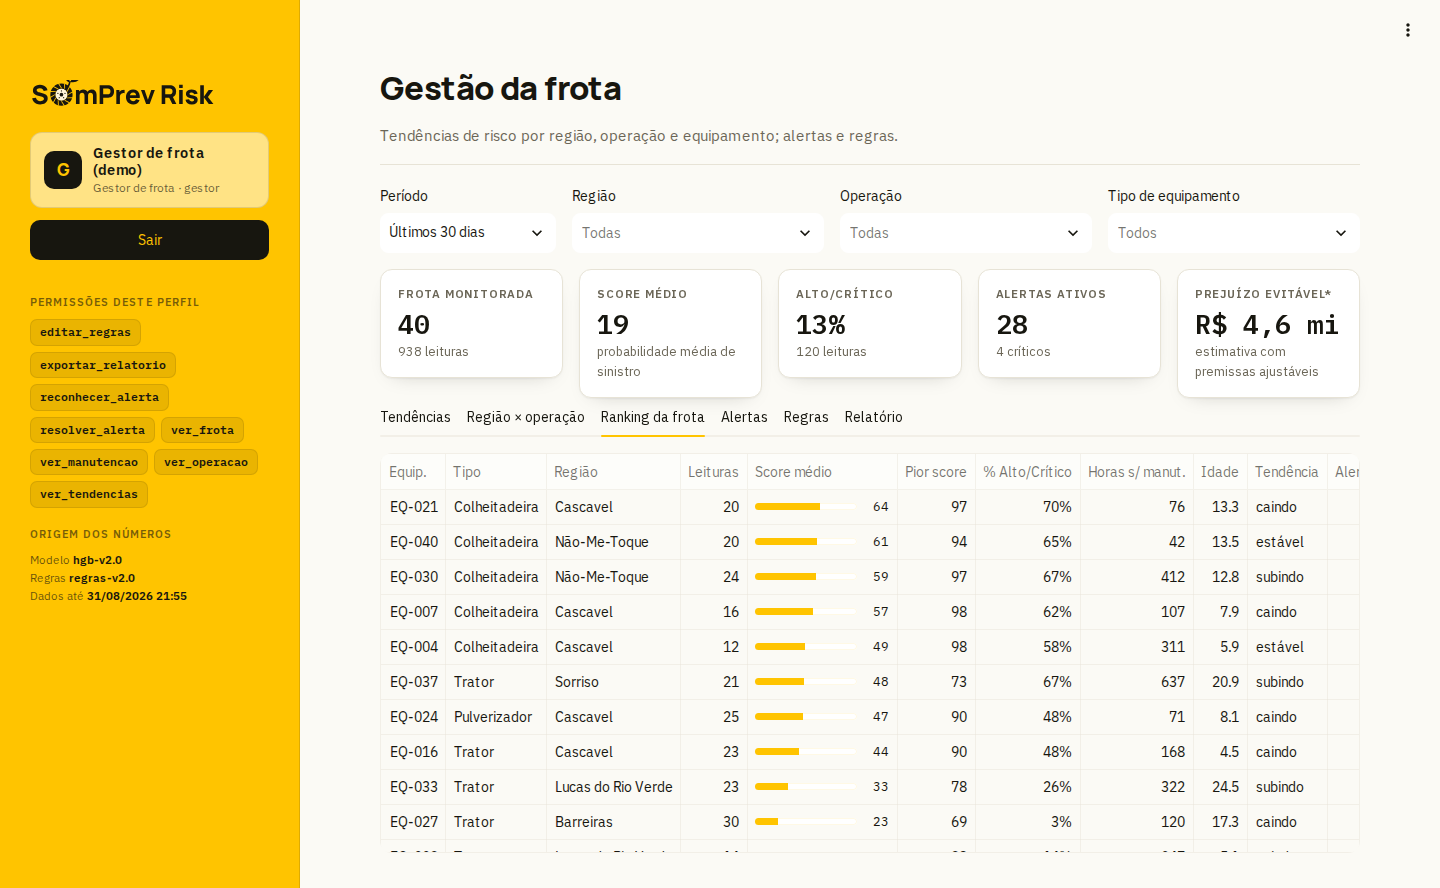
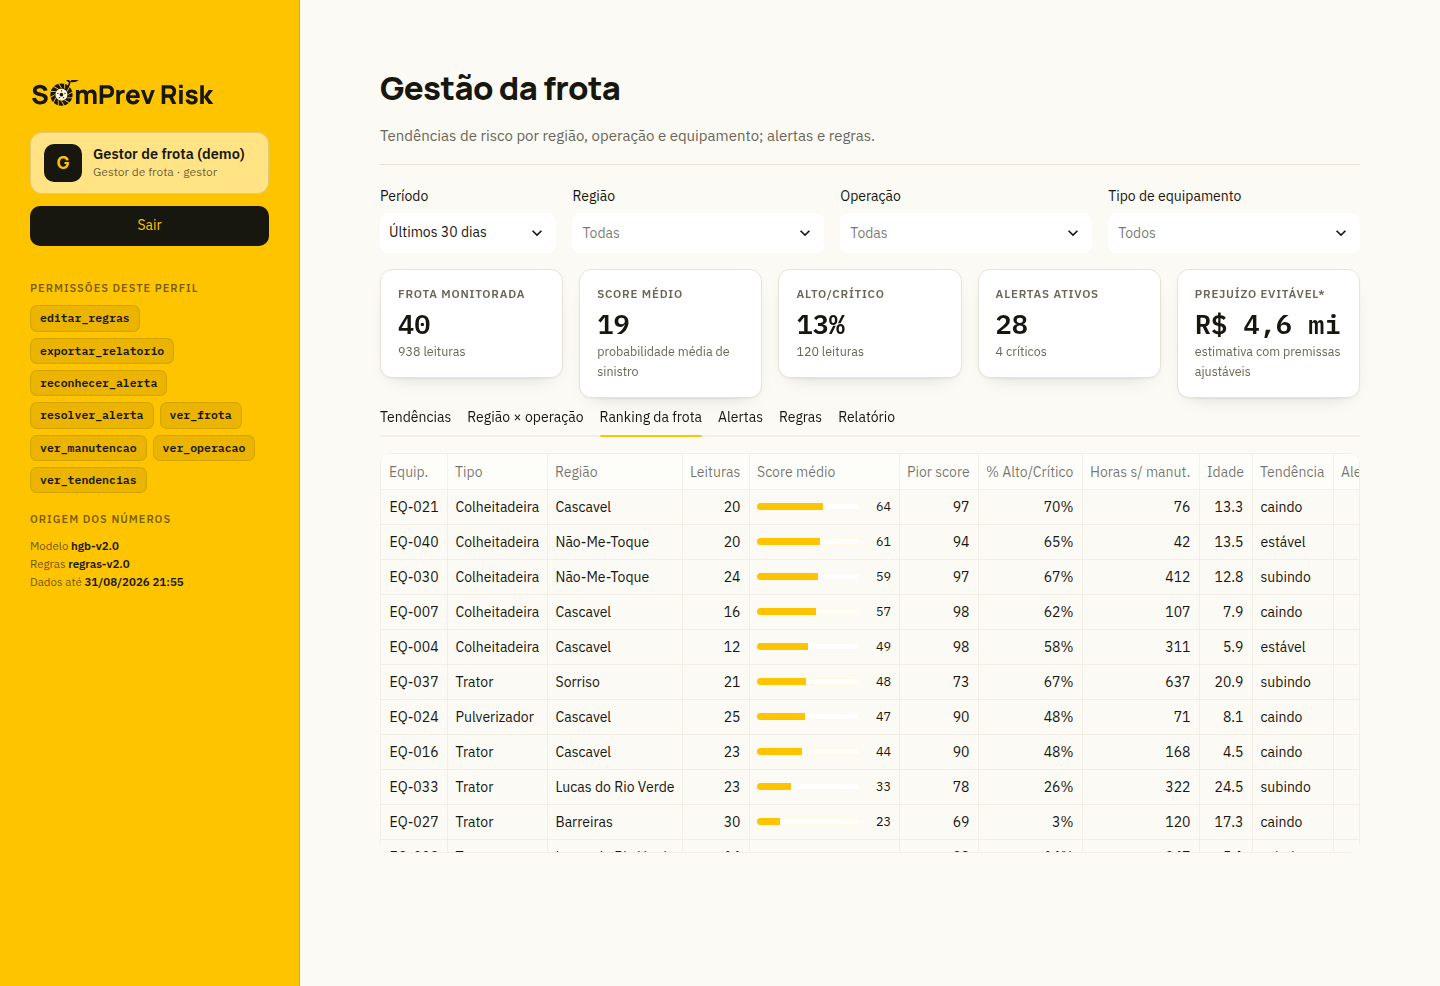
Refaz os prints do dashboard com a paleta corrigida
Os 13 prints de document/prints/sprint4/ eram de 14/10, quando a paleta
categorica generica ainda estava em uso: o grafico de comparacao de modelos
aparecia com barras azul e laranja dentro do print da aba da Seguradora.

- 12 prints refeitos com o dashboard rodando sobre uma COPIA do banco
  (SOMPREV_DB_PATH), entao nenhum dado do repositorio foi alterado.
- 13_api_docs.png mantido: e a interface do Swagger, nao tem nada da identidade.
- tema.py: troca a 5a e a 6a cor da paleta categorica de lugar. Com seis regioes
  no grafico de tendencia, o verde do broto e o oliva caiam lado a lado; agora
  ficam separados por areia e cinza.
- Graficos de document/relatorios/ regerados por causa dessa troca.

model_card.json, metricas.json, modelo_risco.pkl, o banco, os dados tratados e
config/ seguem intactos. 113 testes passando.

diff --git a/src/somprev/tema.py b/src/somprev/tema.py
@@ -106,7 +106,7 @@ PALETA = {
 # variacao de luminosidade preserva a leitura quando o relatorio sai impresso em
 # preto e branco.
 CATEGORICA = ["#17160F", "#A06A00", "#1A7048", "#B08A5A",
-              "#4E7A2F", "#6B6657", "#5C3A0E", "#93A08C"]
+              "#6B6657", "#4E7A2F", "#5C3A0E", "#93A08C"]
 
 # Escala continua do mapa de calor de RISCO: do papel ao vermelho da faixa Critico.
 # Aqui o vermelho e correto -- a grandeza mapeada e risco, e o topo da escala tem o

diff --git a/document/relatorios/relatorio_tendencias.md b/document/relatorios/relatorio_tendencias.md
@@ -1,6 +1,6 @@
 # Relatório de Tendências de Risco — SomPrev Risk
 
-*Gerado automaticamente em 17/10/2026 18:58 · período dos dados: 01/03/2026 a 31/08/2026 · 5.723 leituras · modelo hgb-v2.0 · regras regras-v2.0*
+*Gerado automaticamente em 17/10/2026 20:14 · período dos dados: 01/03/2026 a 31/08/2026 · 5.723 leituras · modelo hgb-v2.0 · regras regras-v2.0*
 
 ## Resumo executivo
 
